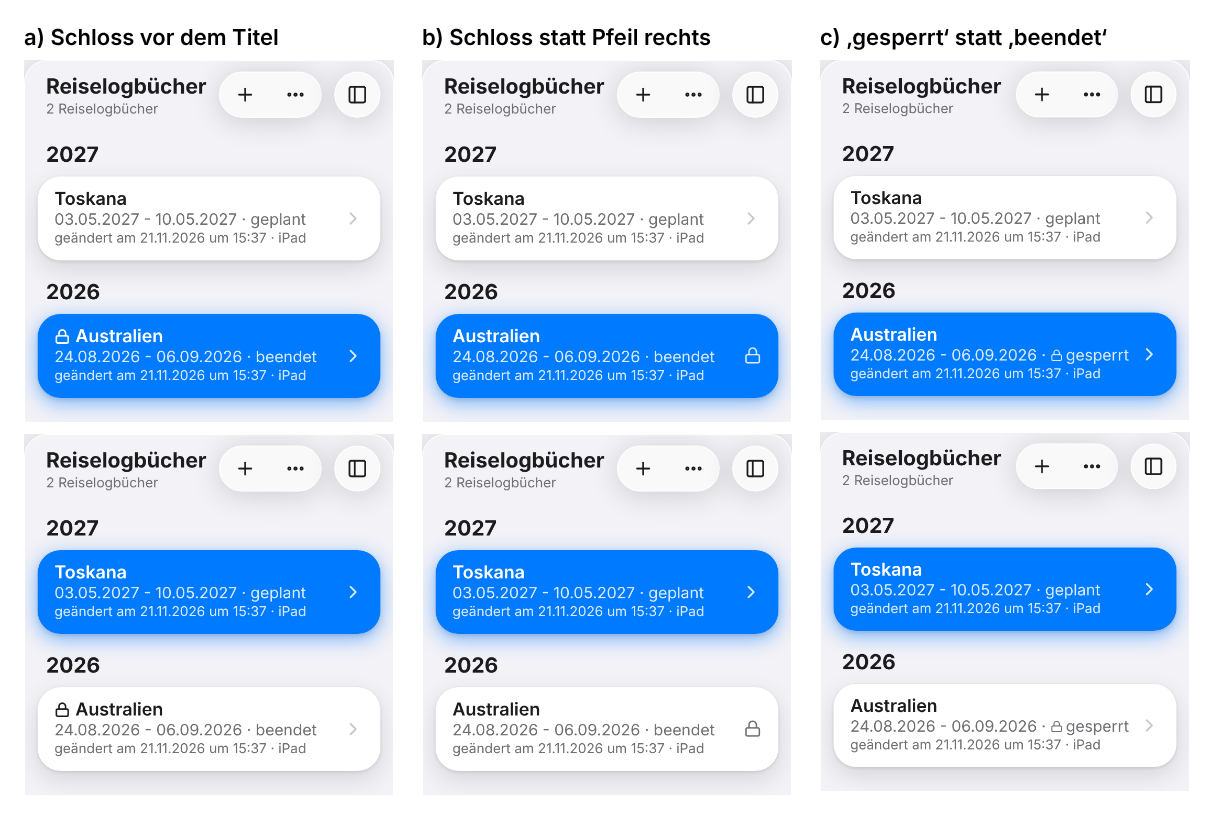
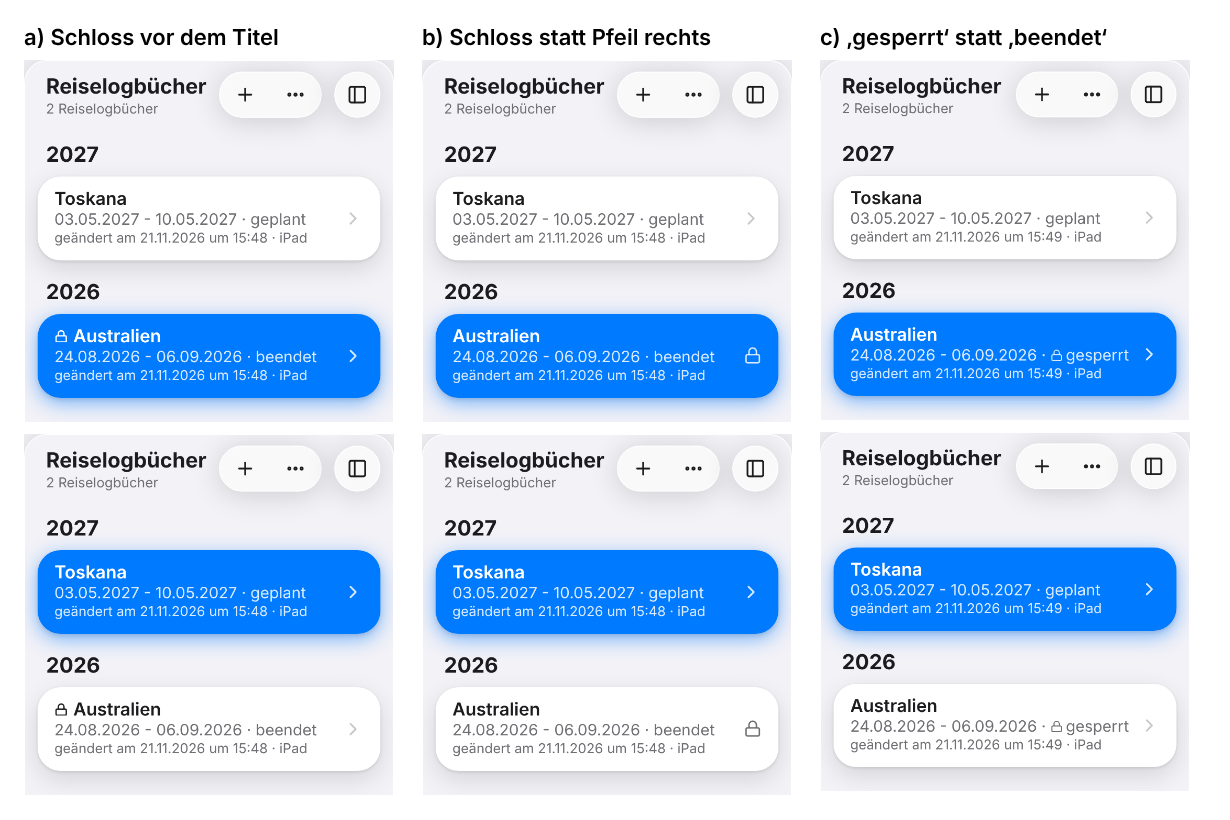
RLB-125: Muster 6 – Schloss vor dem Titel, so hoch wie die Großbuchstaben und mittig (Variante a)
Claude-Session: https://claude.ai/code/session_01HyGMKQa9BEg8rTjGqWUwmP

diff --git a/arbeit/RLB-125/index.html b/arbeit/RLB-125/index.html
@@ -124,7 +124,8 @@
 <style>/* Muster RLB-125 */
 #side .side-row { position: relative; }
 /* Muster 5 (Nutzer 21.11.2026, Sitzung 0149: Schloss unten rechts störend) – Varianten über ?kachel=a|b|c */
-#side .side-row .lk-a { display: inline-flex; vertical-align: -2px; margin-right: 5px; } #side .side-row .lk-a svg { width: 15px; height: 15px; stroke-width: 2.4; }
+#side .side-row .lk-a { display: inline-block; width: .76em; height: .76em; vertical-align: -.05em; margin-right: .3em; }   /* Höhe der Großbuchstaben, mittig zum Titel (Nutzer 21.11.2026), wächst mit der Schrift */
+#side .side-row .lk-a svg { display: block; width: 100%; height: 100%; stroke-width: 2.4; }
 #side .side-row .lk-b { display: inline-flex; flex: none; color: var(--muted); } #side .side-row .lk-b svg { width: 17px; height: 17px; }
 #side .side-row.current .lk-b { color: rgba(255,255,255,.85); }
 #side .side-row .lk-c { white-space: nowrap; } #side .side-row .lk-c svg { width: 12px; height: 12px; vertical-align: -1px; margin-right: 3px; }

diff --git a/arbeit/0149 RLB-125 Muster 3.md b/arbeit/0149 RLB-125 Muster 3.md
@@ -157,3 +157,31 @@ Schloss, keine Fehler auf der Seite. Die Kachel ist bei allen drei gleich hoch w
 - b) nimmt den Pfeil weg, der zeigt, dass die Kachel etwas öffnet. c) nimmt den Zustand weg.
 - Apple: **Vermutung** – Notizen zeigt bei gesperrten Notizen ein kleines Schloss in der Zeile der Liste. In dieser Sitzung ist das nicht belegt
   (support.apple.com ist aus der Umgebung nicht erreichbar).
+
+## Muster 6 – Variante a, mittig zum Titel (Nutzer 21.11.2026, Sitzung 0149: „A) vor dem Titel, aber in der Höhe zentriert mit dem Text und nicht tiefergestellt, so wie es im Muster aussieht“)
+
+Link (Variante a ist jetzt der Normalfall): https://g811141a.github.io/AppDesign/arbeit/RLB-125/index.html – bitte ganz neu laden.
+
+### Geändert
+
+- Das `lock` ist so hoch wie die Großbuchstaben des Titels (0,76 der Schriftgröße, bei 17 pt rund 13 px statt 15 px). Es steht mittig zu ihnen und reicht nicht
+  mehr unter die Grundlinie. Vorher war es 14 px hoch und ragte 1,5 px unter die Buchstaben. Weil die Größe in em angegeben ist, wächst das Schloss mit der Textgröße
+  mit.
+- Bild `arbeit/RLB-125/bilder/19.png` (Ausschnitt, stark vergrößert), `17.png` (alle drei Varianten, a jetzt mittig).
+
+### Gemessen (Pixel der Bilder: Mitte des Schlosses gegen Mitte des ‚A‘, positiv = Schloss tiefer)
+
+| | Chromium iPad | Chromium iPhone | WebKit iPad | WebKit iPhone |
+|---|---|---|---|---|
+| vorher (15 px) | +0,63 px | +0,63 px | +1,13 px | +0,63 px |
+| jetzt, 2× | +0,44 px | +0,44 px | −0,16 px | +1,34 px |
+| jetzt, 3× | +0,27 px | +0,27 px | +0,01 px | +1,34 px |
+
+In WebKit am iPhone liegt das Schloss in der Prüfumgebung noch 1,3 px tiefer, obwohl es gleich angeordnet ist wie am iPad (3,84 px unter der Oberkante des
+Titels). **Vermutung:** WebKit rundet die Lage des Symbols hier anders. Am Gerät bitte genau darauf achten.
+
+### Schritte (iPad quer, hell, dann iPhone hoch)
+
+1. Link öffnen, ganz neu laden. Erwartet: Das `lock` steht vor ‚Australien‘, genauso hoch wie das ‚A‘ und auf derselben Höhe – oben und unten bündig.
+2. ‚Toskana‘ antippen. Erwartet: Auf der weißen Kachel ‚Australien‘ steht das `lock` schwarz, wieder bündig mit dem ‚A‘.
+3. Am iPhone in der Startliste ansehen. Erwartet: wie in Schritt 2.
